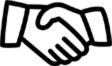
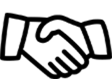
1.assets/img/等待图片优化

diff --git a/components/CooperationFlow.vue b/components/CooperationFlow.vue
@@ -2,11 +2,21 @@
     <div class="cooperation-flow">
       <TitleDes title="合作流程" des="服务之心·海纳百川"></TitleDes>
       <div class="inner">
-        <div v-for="li in flowData">
-          <img :src="li.imgUrl" alt="">
-          <h3>{{li.des}}</h3>
-          <img class="cooperation-flow-arrow" src="../assets/img/icon_flow_arrow_right.png" alt="" v-if="li.showArrow">
+        <div class="cooperation-flow-flowData">
+          <div v-for="li in flowData">
+            <img :src="li.imgUrl" alt="">
+            <h3>{{li.des}}</h3>
+            <img class="cooperation-flow-arrow" src="../assets/img/icon_flow_arrow_right.png" alt="" v-if="li.showArrow">
+          </div>
         </div>
+        <div class="divide"></div>
+        <p>留下您的联系方式，我们将第一时间与您联系！</p>
+        <div class="cooperation-flow-contact">
+          <input type="text" v-model="name" placeholder="名字">
+          <input type="text" v-model="companyName" placeholder="公司">
+          <input type="text" v-model="phone" placeholder="手机">
+        </div>
+        <h3>立即提交</h3>
       </div>
     </div>
 </template>
@@ -24,7 +34,10 @@
       components: {TitleDes},
       data() {
         return {
-          flowData
+          flowData,
+          name: '',
+          companyName: '',
+          phone: ''
         }
       },
     }
@@ -38,22 +51,56 @@
   >.inner{
     width: $innerWidth;
     margin: 0 auto;
-    display: flex;
-    flex-flow: nowrap row;
-    justify-content: space-between;
-    >div{
-      position: relative;
+    >.cooperation-flow-flowData{
+      display: flex;
+      flex-flow: nowrap row;
+      justify-content: space-between;
+      >div{
+        position: relative;
+        text-align: center;
+        .cooperation-flow-arrow{
+          position: absolute;
+          right: -120px;
+          top: 0;
+        }
+        h3{
+          margin-top: 60px;
+          font-size: 30px;
+          font-weight: 500;
+        }
+      }
+    }
+    >.divide{
+      border:2px dashed rgba(0,0,0,1);
+      margin: 40px 0;
+    }
+    >p{
+      color: #505050;
+      font-size:30px;
+      margin-bottom: 50px;
+    }
+    >.cooperation-flow-contact{
+      display: flex;
+      justify-content: space-between;
+      >input{
+        border-radius:5px;
+        width:352px;
+        height:52px;
+        border: none;
+        padding-left: 10px;
+      }
+    }
+    >h3{
+      width:240px;
+      height:50px;
+      line-height: 50px;
+      margin: 47px auto;
+      background:rgba(255,83,96,1);
+      border-radius:15px;
       text-align: center;
-      .cooperation-flow-arrow{
-        position: absolute;
-        right: -120px;
-        top: 0;
-      }
-      h3{
-        margin-top: 60px;
-        font-size: 30px;
-        font-weight: 500;
-      }
+      color: #ffffff;
+      font-size: 30px;
+      font-weight: normal;
     }
   }
 }

diff --git a/components/AboutUs.vue b/components/AboutUs.vue
@@ -1,0 +1,37 @@
+<template>
+    <div class="about-us">
+      <TitleDes title="关于我们" des="About us"></TitleDes>
+      <div class="inner">
+        <div>
+          <img src="../assets/img/about_pic_des_001.png" alt="">
+          <img src="../assets/img/about_pic_des_002.png" alt="">
+          <img src="../assets/img/about_pic_des_003.png" alt="">
+        </div>
+        <p>
+          钱源传媒成立于2018年3月，目前公司员工70+人，下设运营部、商务部、创意部、媒介部、人力资源部、财务部、视频部，是一家以技术为驱动，以专业团队为支撑，以效果为保障，为广告主提供优质高效的绿色营销企业。公司拥有一支专业的数字化整合营销服务团队，拥有移动互联网领域最优质的广告平台资源（今日头条、快手、抖音等移动互联网广告平台资源），已成为国内知名的广告服务商。组建了一支经验丰富的优化团队，24小时为客户的效果类广告投放进行监控、优化等精准化服务，为各类客户解决多种推广诉求。
+          公司专注于电商运营服务，在门户网站大数据整合，定向营销，精准流量订单转化，品牌传播方面有着独到的操作方案和思路！通过客户的需求定位以及用户网络行为数据的深入研究与分析，采用系统化的策划与全面的运营体系，精准覆盖到目标用户。通过对各产品的整合、优化来实现互联网媒体流量最大价值，进而提升客户的投资回报率。
+        </p>
+      </div>
+    </div>
+</template>
+
+<script>
+    import TitleDes from "./TitleDes";
+    export default {
+        name: "AboutUs",
+      components: {TitleDes}
+    }
+</script>
+
+<style lang="scss" scoped>
+.about-us{
+  >.inner{
+    width:1025px;
+    height:635px;
+    margin: 0 auto;
+    box-shadow: 0 0 0 4px #FFFFFF;
+    border: 4px solid #F0F0F0;
+    background-color: #ffffff;
+  }
+}
+</style>

diff --git a/pages/about/index.vue b/pages/about/index.vue
@@ -1,12 +1,15 @@
 <template>
     <div>
-      aaaaaaaaaaa
+      <about-us></about-us>
     </div>
 </template>
 
 <script>
+    import TitleDes from "../../components/TitleDes";
+    import AboutUs from "../../components/AboutUs";
     export default {
         name: "index",
+      components: {AboutUs, TitleDes},
       layout: "HeadFoot"
     }
 </script>

diff --git a/assets/config/picConfig.js b/assets/config/picConfig.js
@@ -1,4 +1,5 @@
 export const picMap = {
     index: require("../img/pic_banner.png"),
     about: require("../img/pic_banner_about.png"),
+    business: require("../img/pic_business03_banner.png"),
 }

diff --git a/layouts/HeadFoot.vue b/layouts/HeadFoot.vue
@@ -31,6 +31,8 @@
     }
 </script>
 
-<style lang="scss" scoped>
-
+<style lang="scss">
+#__nuxt{
+  background-color: #F0F0F0;
+}
 </style>
